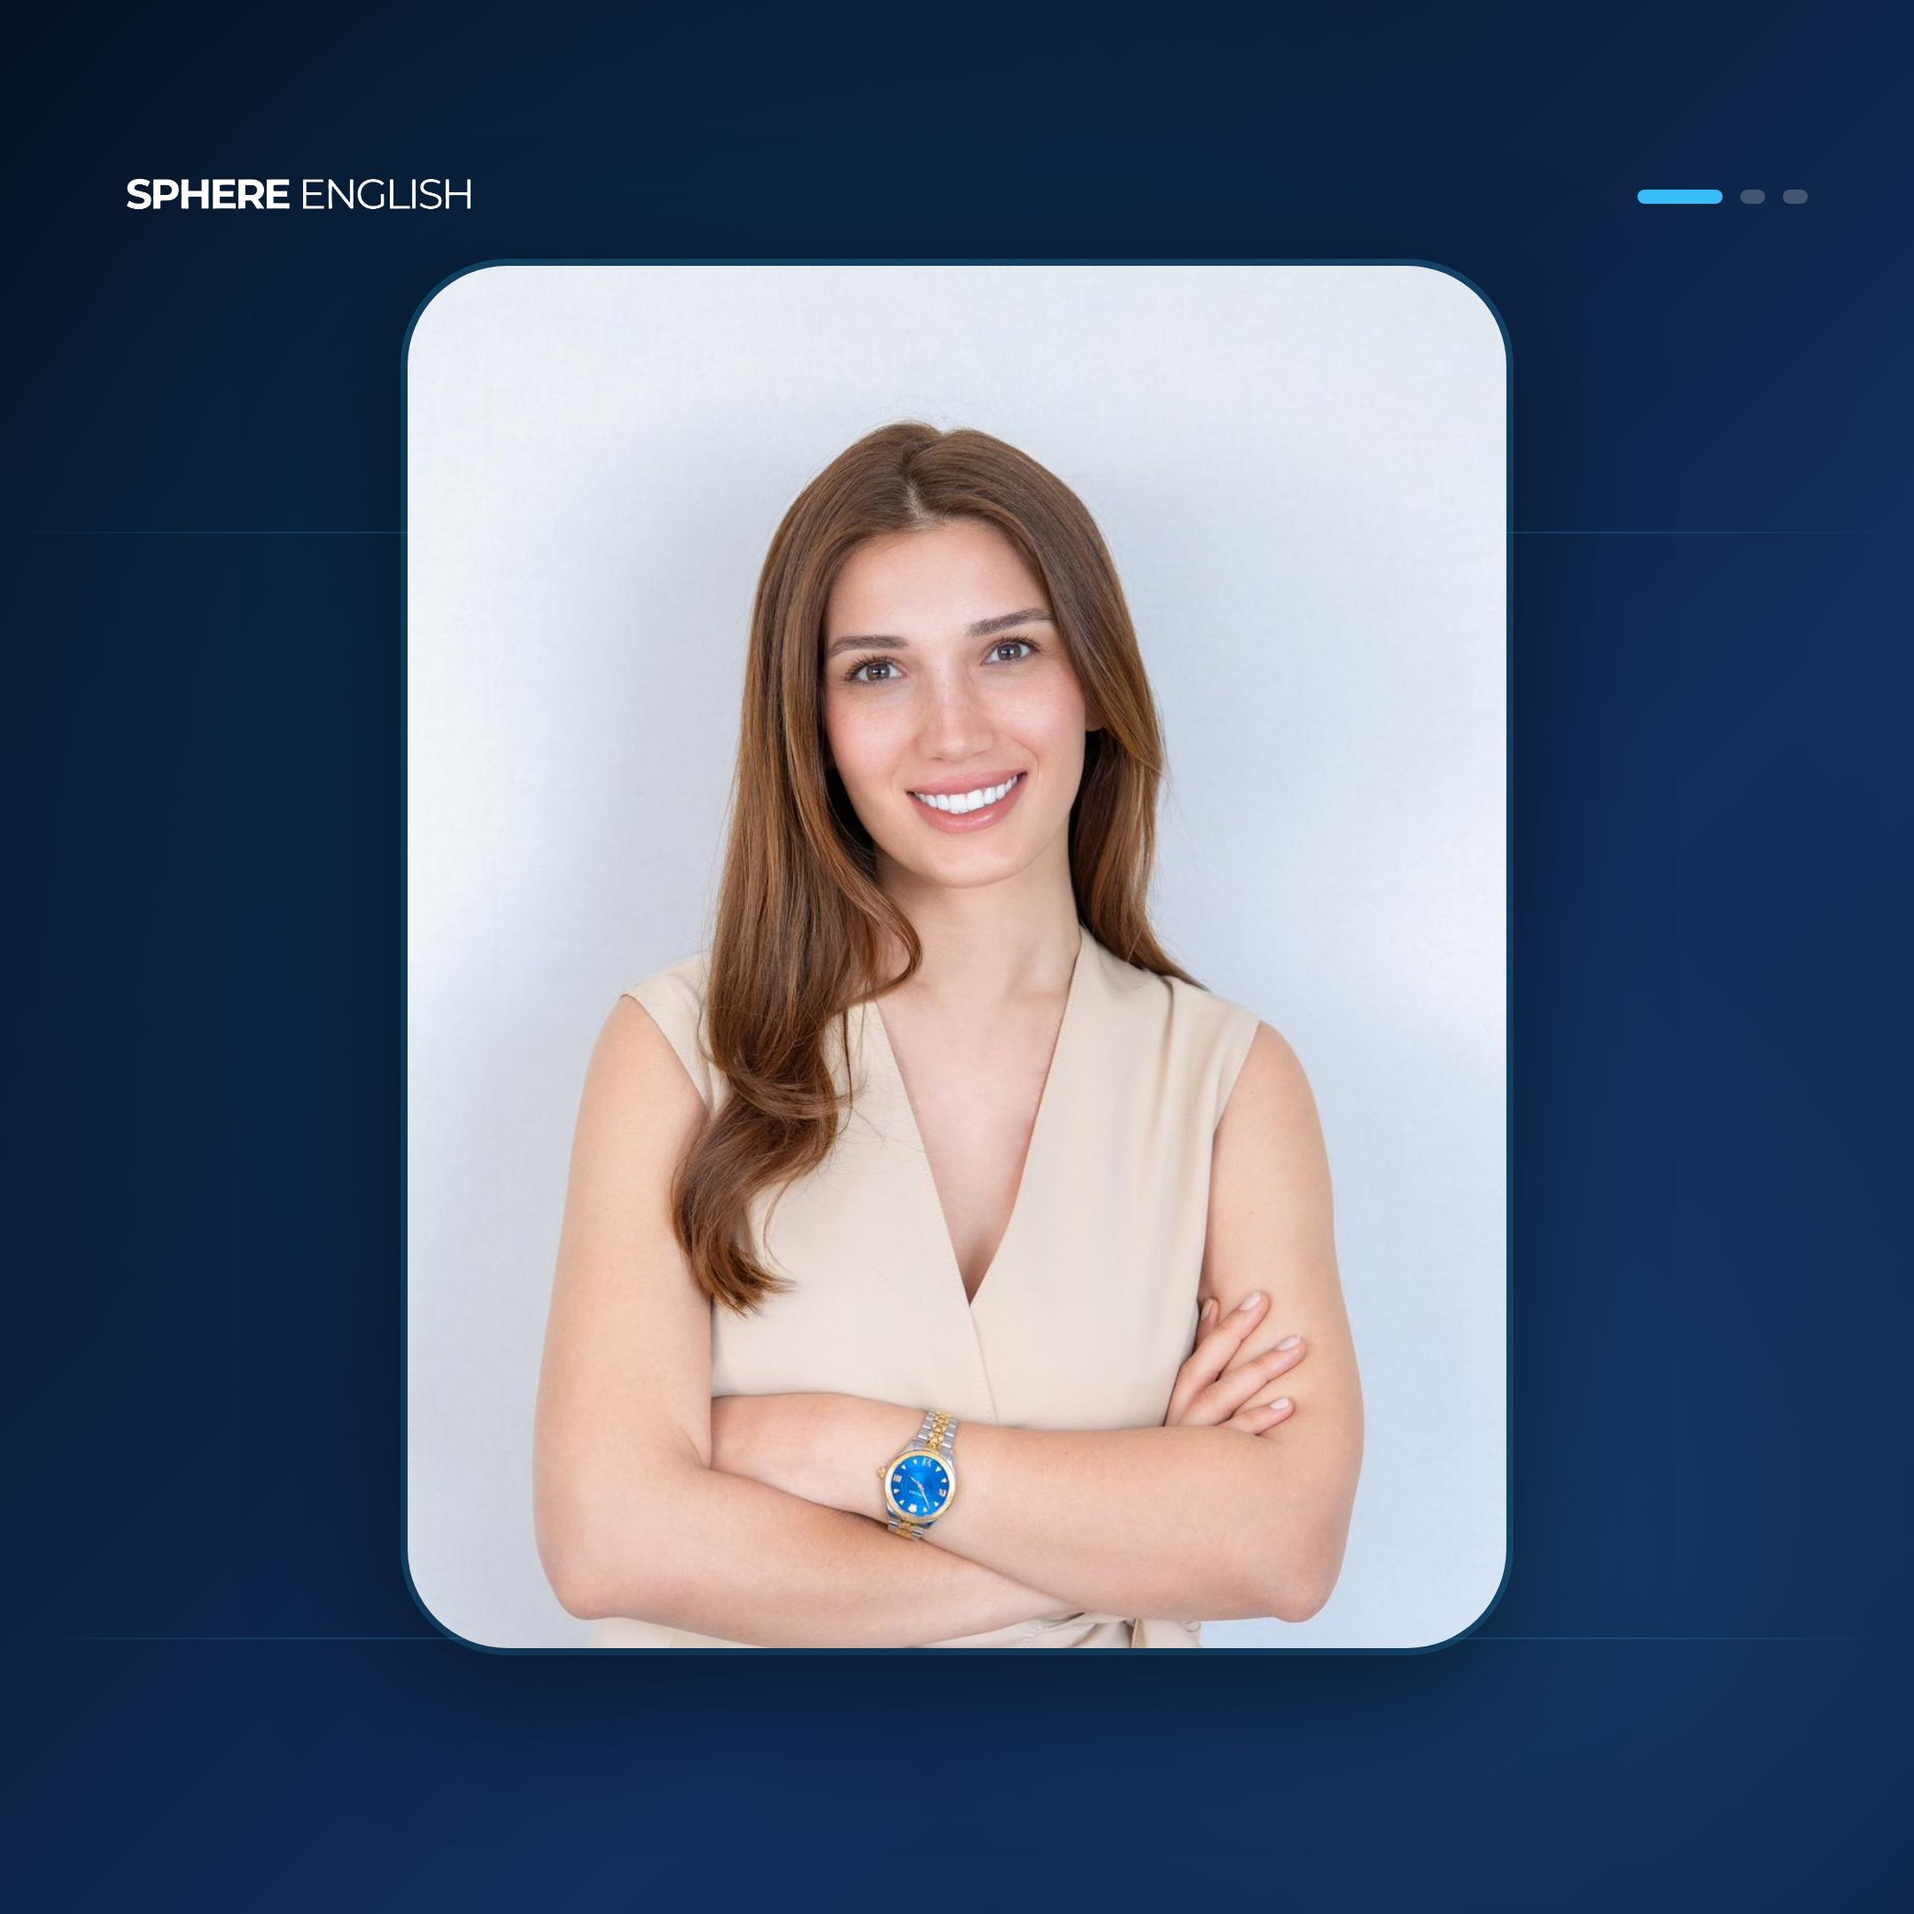
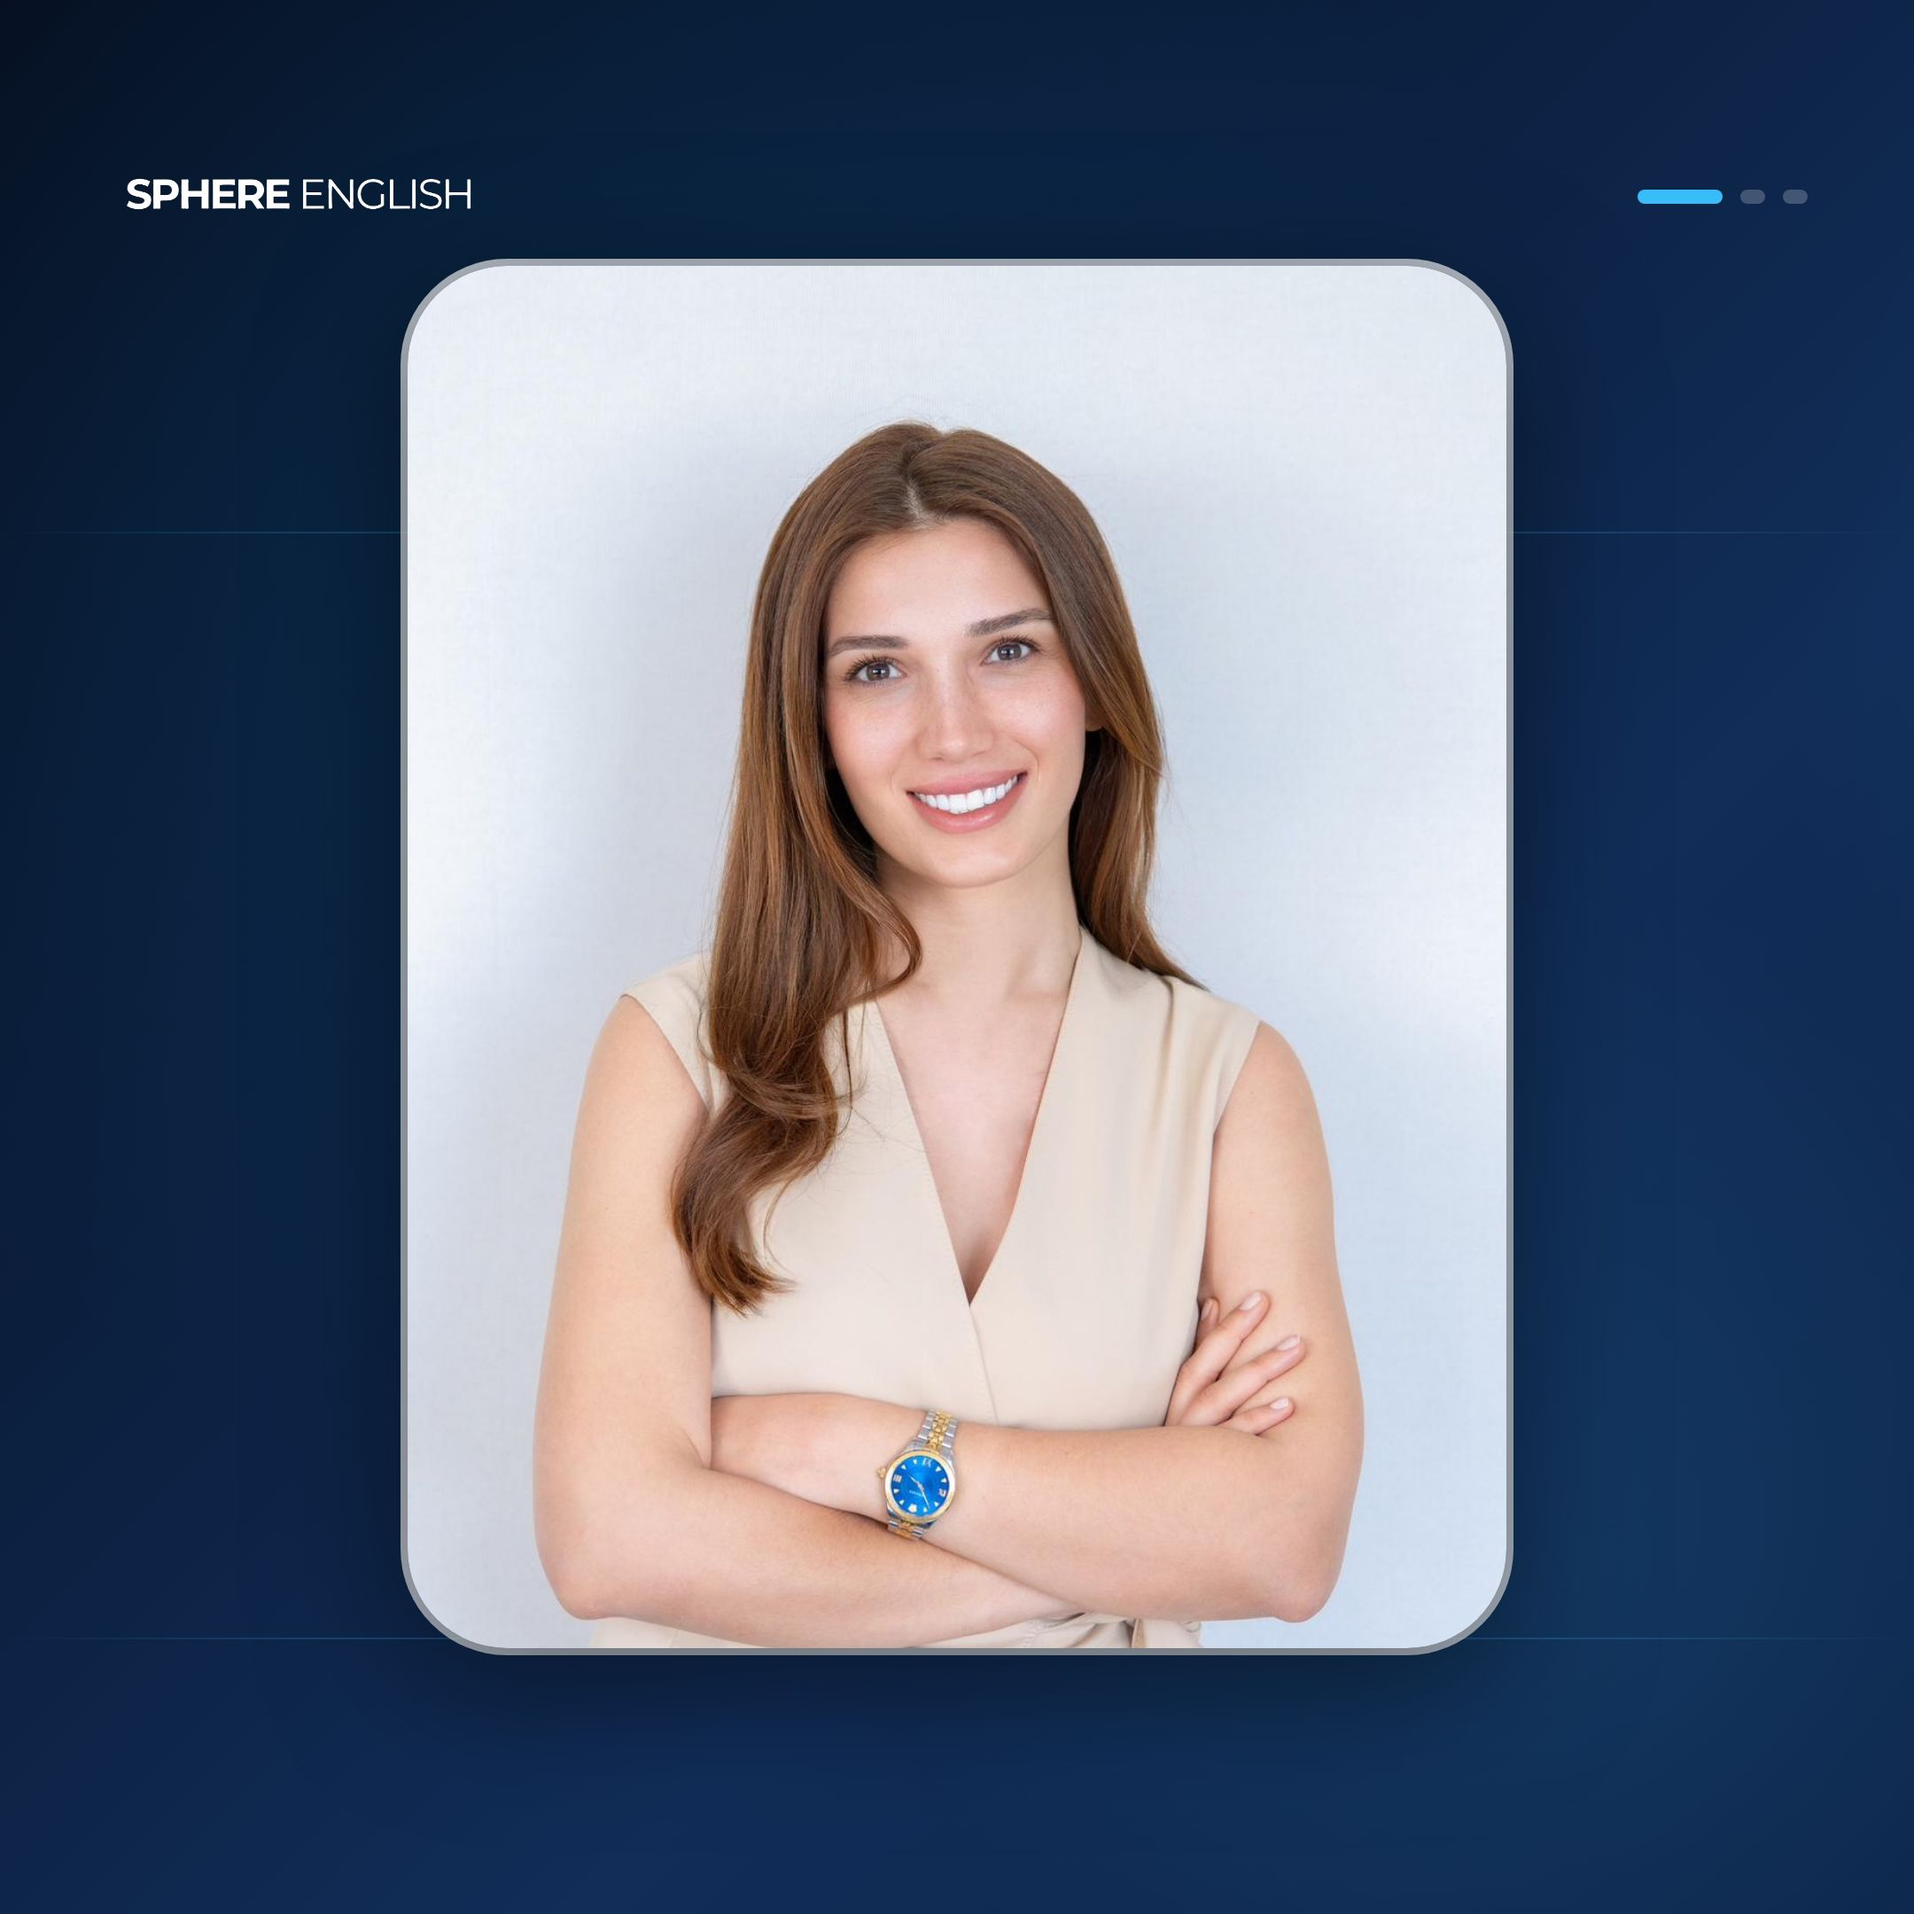
Make the photo frame borders white for a cleaner look
Update the box-shadow property in `FoundersPost.tsx` to use a white outline for the photo frame borders, and update `panel-1-didem.jpg` and `panel-3-merve.jpg`.

Replit-Commit-Author: Agent
Replit-Commit-Session-Id: 7828208e-226c-43ef-9a3e-875997ce7956
Replit-Commit-Checkpoint-Type: full_checkpoint
Replit-Commit-Event-Id: c1564528-8313-44f7-98b8-a41860a247be
Replit-Commit-Screenshot-Url: https://storage.googleapis.com/screenshot-production-us-central1/f780e6cf-cd3b-477f-8b05-3e4b163e7069/7828208e-226c-43ef-9a3e-875997ce7956/FN9H2ua
Replit-Helium-Checkpoint-Created: true

diff --git a/artifacts/mockup-sandbox/src/components/mockups/instagram-post/FoundersPost.tsx b/artifacts/mockup-sandbox/src/components/mockups/instagram-post/FoundersPost.tsx
@@ -87,7 +87,7 @@ const PhotoPanel = ({ src, alt, dots }: { src: string; alt: string; dots: number
         height: CARD_H,
         borderRadius: px(56),
         overflow: "hidden",
-        boxShadow: `0 ${px(20)}px ${px(80)}px rgba(0,0,0,0.50), 0 0 0 ${px(4)}px rgba(56,189,248,0.25)`,
+        boxShadow: `0 ${px(20)}px ${px(80)}px rgba(0,0,0,0.50), 0 0 0 ${px(4)}px rgba(255,255,255,0.70)`,
         flexShrink: 0,
         zIndex: 1,
       }}>
